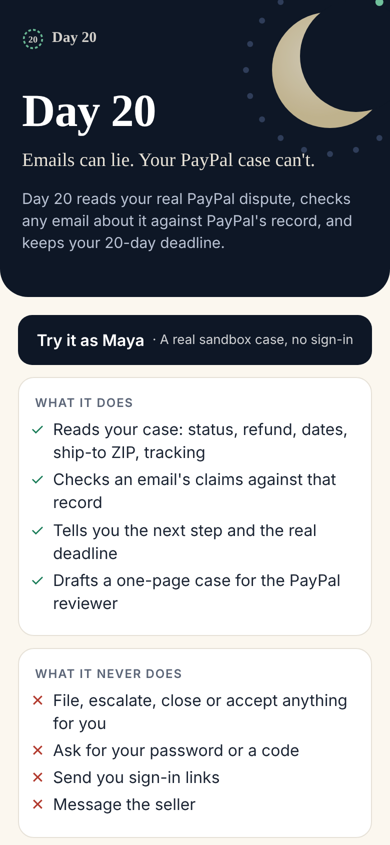
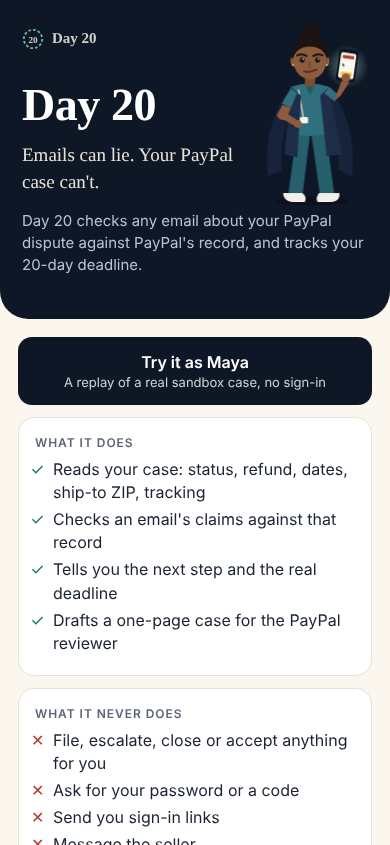
Retake README screenshots with the current app text

diff --git a/docs/screens/README.md b/docs/screens/README.md
@@ -1,0 +1,5 @@
+# Screenshots
+
+Taken on Nov 12, 2026 from the app in replay mode (`node server.js --replay`) at a phone size of 390×845.
+
+For the check screen, the model's part was replayed offline: the same tool calls the live model made for Maya's email (it reported the $66 refund claim with its quote, then chose the headline, bottom line, next step and report sentences). Everything shown is computed by the app's own code from those calls. No live API call was made for these images.
